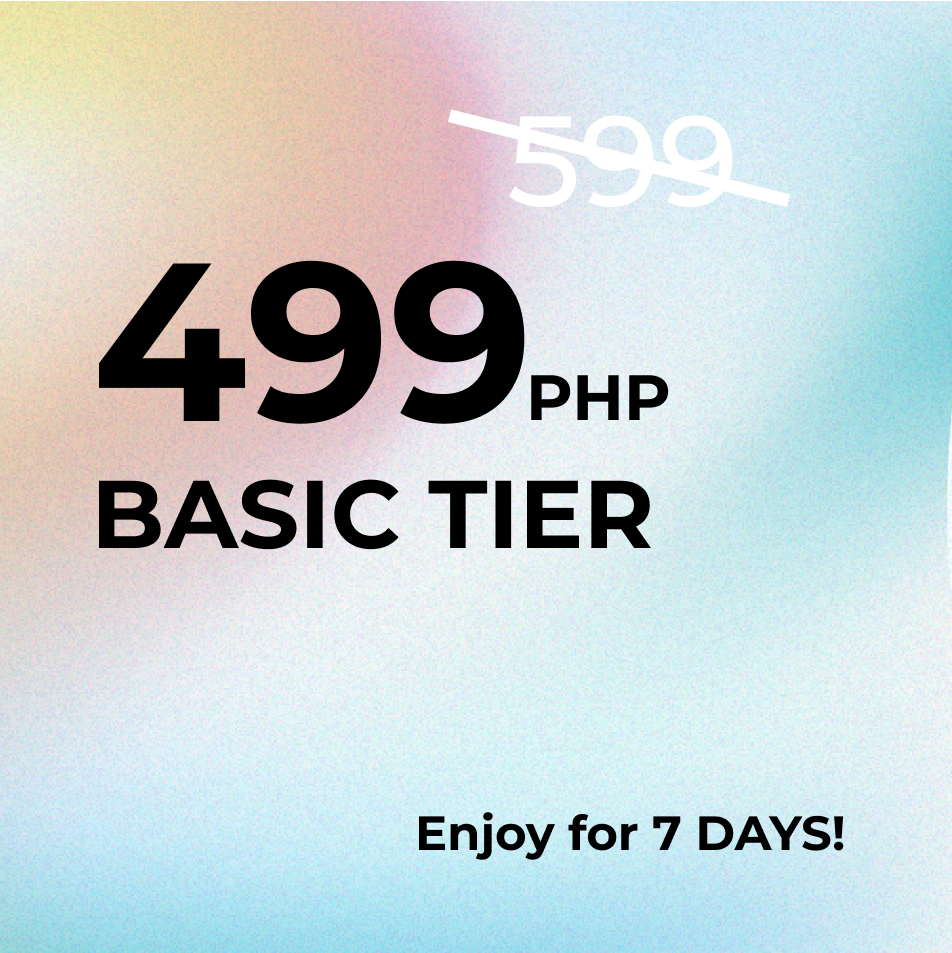
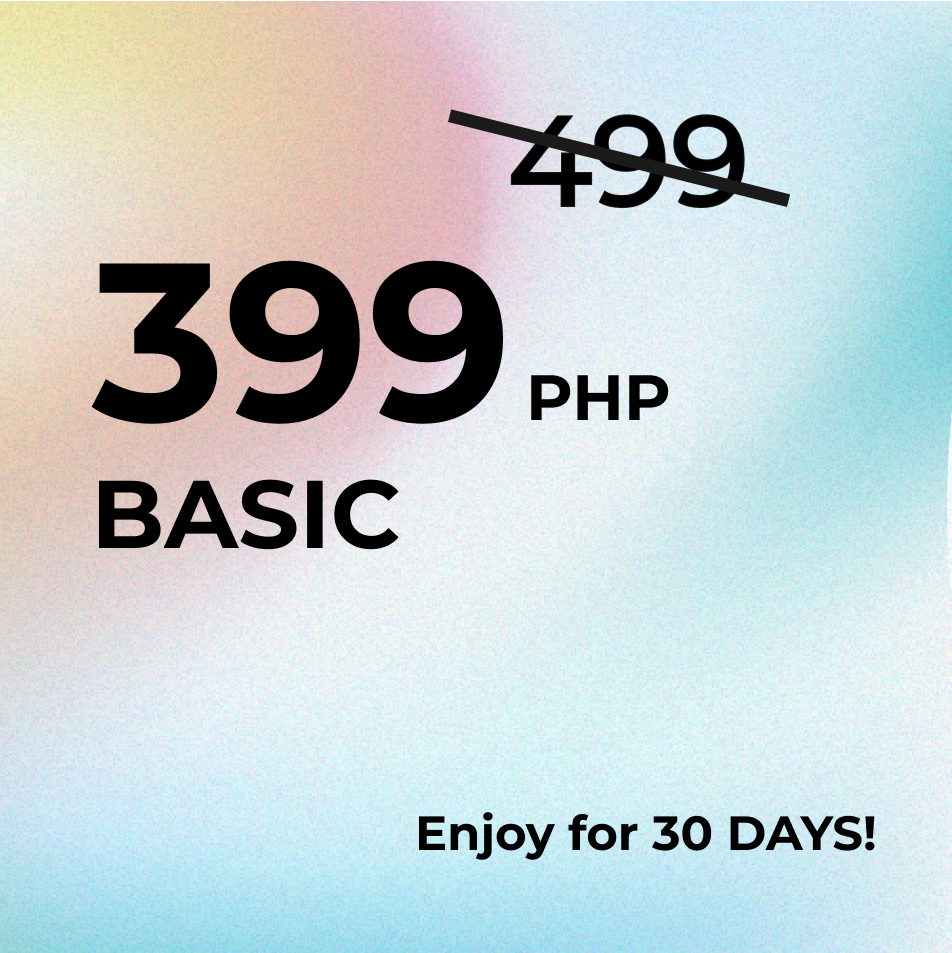
addlisting change(done)

diff --git a/assets/css/agent_sidebar.css b/assets/css/agent_sidebar.css
@@ -239,6 +239,7 @@
   position: relative;
   background: #fff;
   width: auto;
+  max-width: 1165px;
   border-radius: 30px;
   padding: 2rem;
   text-align: center;
@@ -329,6 +330,11 @@
 .boost-card[data-plan="premium"],
 .boost-card-standalone[data-plan="premium"] {
   background-image: url('/BatEstateExplorer/assets/images/PREMIUM.png');
+}
+
+.boost-card[data-plan="platinum"],
+.boost-card-standalone[data-plan="platinum"] {
+  background-image: url('/BatEstateExplorer/assets/images/PLATINUM.png');
 }
 
 /* Hover / Active states */

diff --git a/public/app/Views/agent/associate_home.php b/public/app/Views/agent/associate_home.php
@@ -362,8 +362,26 @@
                     'label' => 'Property Type',
                     'options' => [
                         '' => 'All Type',
-                        'Property' => 'Property',
-                        'Lot' => 'Lot'
+                        'Condominium' => 'Condominium',
+                        'Apartment' => 'Apartment',
+                        'Townhouse' => 'Townhouse',
+                        'House and Lot' => 'House and Lot',
+                        'Commercial Building' => 'Commercial Building',
+                        'Lot Only' => 'Lot Only',
+                        'Farm Lot' => 'Farm Lot',
+                        'Industrial Lot' => 'Industrial Lot',
+                        'Beachfront Property' => 'Beachfront Property',
+                        'Resort' => 'Resort',
+                        'Hotels and Motels' => 'Hotels and Motels',
+                        'Dormitory' => 'Dormitory',
+                        'Office Space' => 'Office Space',
+                        'Warehouse' => 'Warehouse',
+                        'Retail Space' => 'Retail Space',
+                        'Mixed-Use Development' => 'Mixed-Use Development',
+                        'Luxury Estate' => 'Luxury Estate',
+                        'Foreclosed Property' => 'Foreclosed Property',
+                        'Subdivision Development' => 'Subdivision Development',
+                        'Others' => 'Others'
                     ]
                 ],
 

diff --git a/public/app/Views/agent/direct_home.php b/public/app/Views/agent/direct_home.php
@@ -362,8 +362,26 @@
                     'label' => 'Property Type',
                     'options' => [
                         '' => 'All Type',
-                        'Property' => 'Property',
-                        'Lot' => 'Lot'
+                        'Condominium' => 'Condominium',
+                        'Apartment' => 'Apartment',
+                        'Townhouse' => 'Townhouse',
+                        'House and Lot' => 'House and Lot',
+                        'Commercial Building' => 'Commercial Building',
+                        'Lot Only' => 'Lot Only',
+                        'Farm Lot' => 'Farm Lot',
+                        'Industrial Lot' => 'Industrial Lot',
+                        'Beachfront Property' => 'Beachfront Property',
+                        'Resort' => 'Resort',
+                        'Hotels and Motels' => 'Hotels and Motels',
+                        'Dormitory' => 'Dormitory',
+                        'Office Space' => 'Office Space',
+                        'Warehouse' => 'Warehouse',
+                        'Retail Space' => 'Retail Space',
+                        'Mixed-Use Development' => 'Mixed-Use Development',
+                        'Luxury Estate' => 'Luxury Estate',
+                        'Foreclosed Property' => 'Foreclosed Property',
+                        'Subdivision Development' => 'Subdivision Development',
+                        'Others' => 'Others'
                     ]
                 ],
 

diff --git a/public/app/Views/user/user_home.php b/public/app/Views/user/user_home.php
@@ -362,8 +362,26 @@
                     'label' => 'Property Type',
                     'options' => [
                         '' => 'All Type',
-                        'Property' => 'Property',
-                        'Lot' => 'Lot'
+                        'Condominium' => 'Condominium',
+                        'Apartment' => 'Apartment',
+                        'Townhouse' => 'Townhouse',
+                        'House and Lot' => 'House and Lot',
+                        'Commercial Building' => 'Commercial Building',
+                        'Lot Only' => 'Lot Only',
+                        'Farm Lot' => 'Farm Lot',
+                        'Industrial Lot' => 'Industrial Lot',
+                        'Beachfront Property' => 'Beachfront Property',
+                        'Resort' => 'Resort',
+                        'Hotels and Motels' => 'Hotels and Motels',
+                        'Dormitory' => 'Dormitory',
+                        'Office Space' => 'Office Space',
+                        'Warehouse' => 'Warehouse',
+                        'Retail Space' => 'Retail Space',
+                        'Mixed-Use Development' => 'Mixed-Use Development',
+                        'Luxury Estate' => 'Luxury Estate',
+                        'Foreclosed Property' => 'Foreclosed Property',
+                        'Subdivision Development' => 'Subdivision Development',
+                        'Others' => 'Others'
                     ]
                 ],
 
